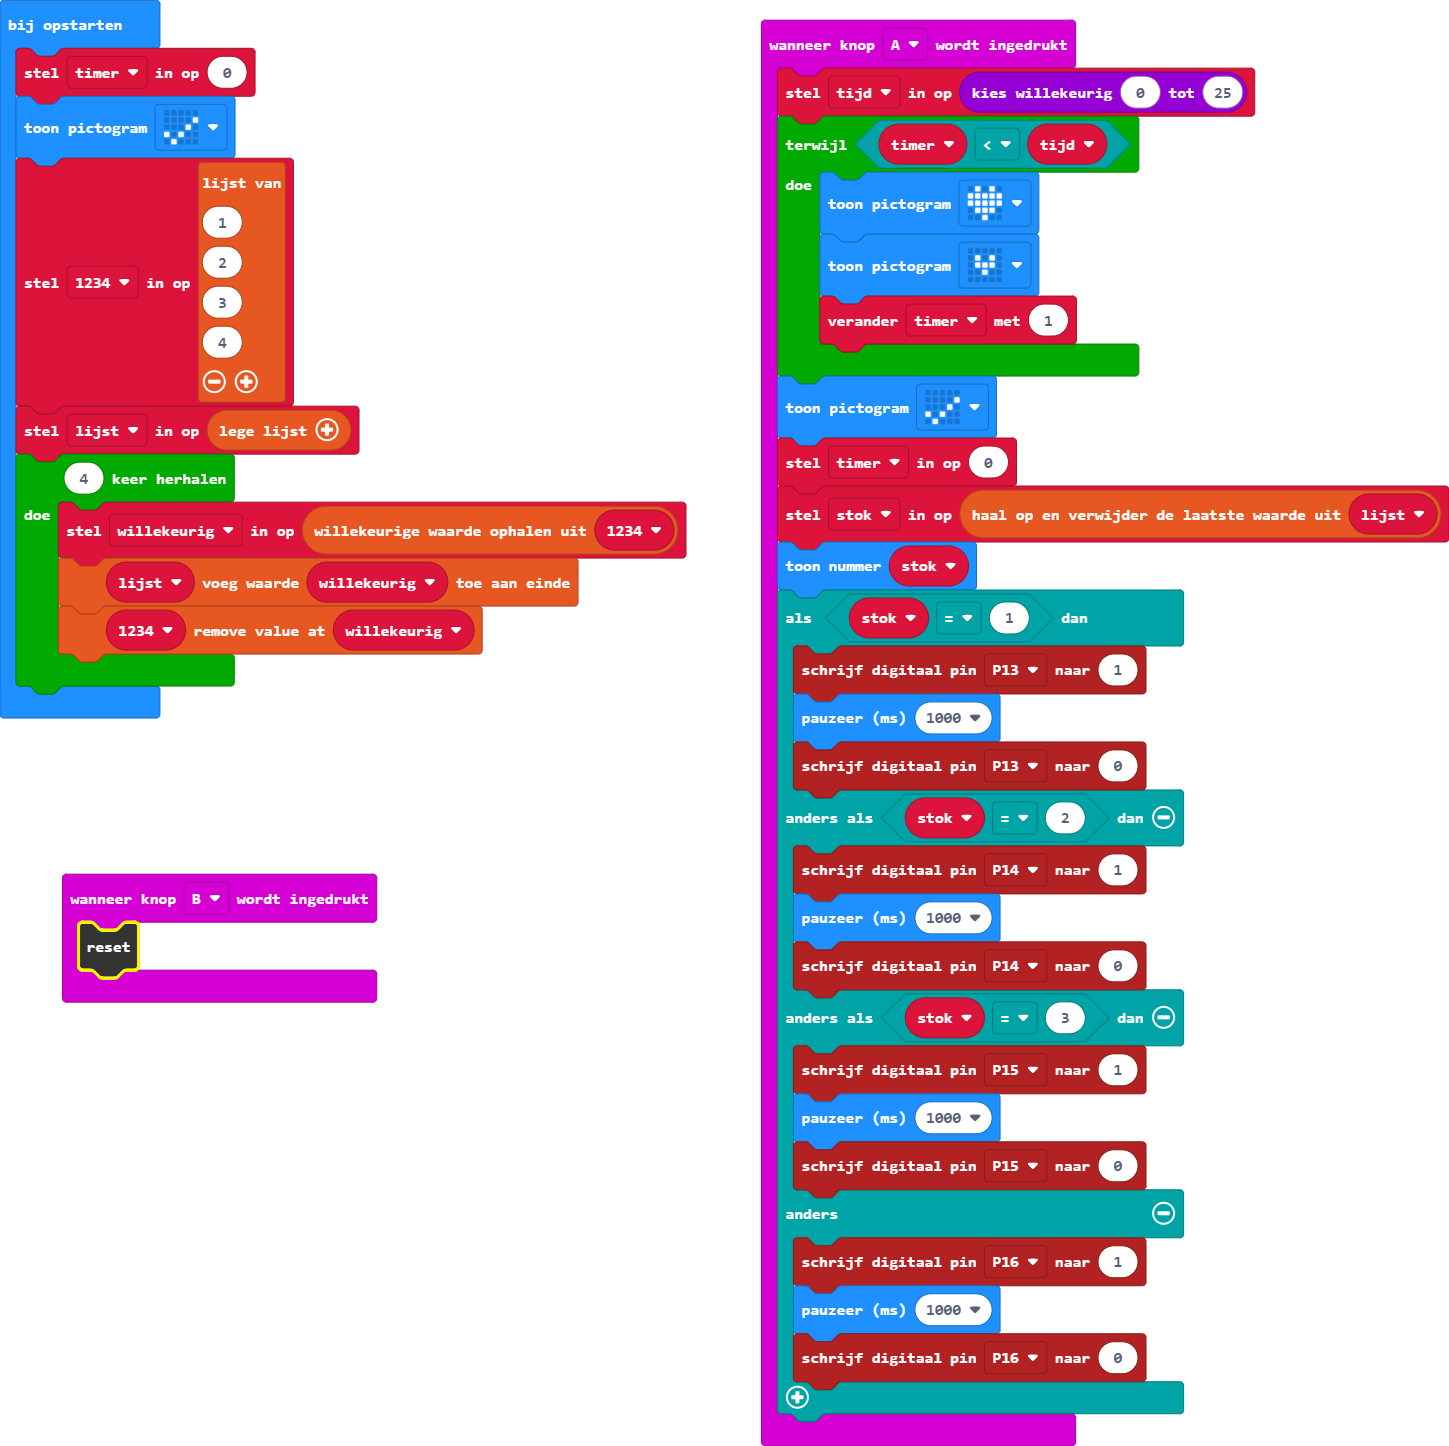
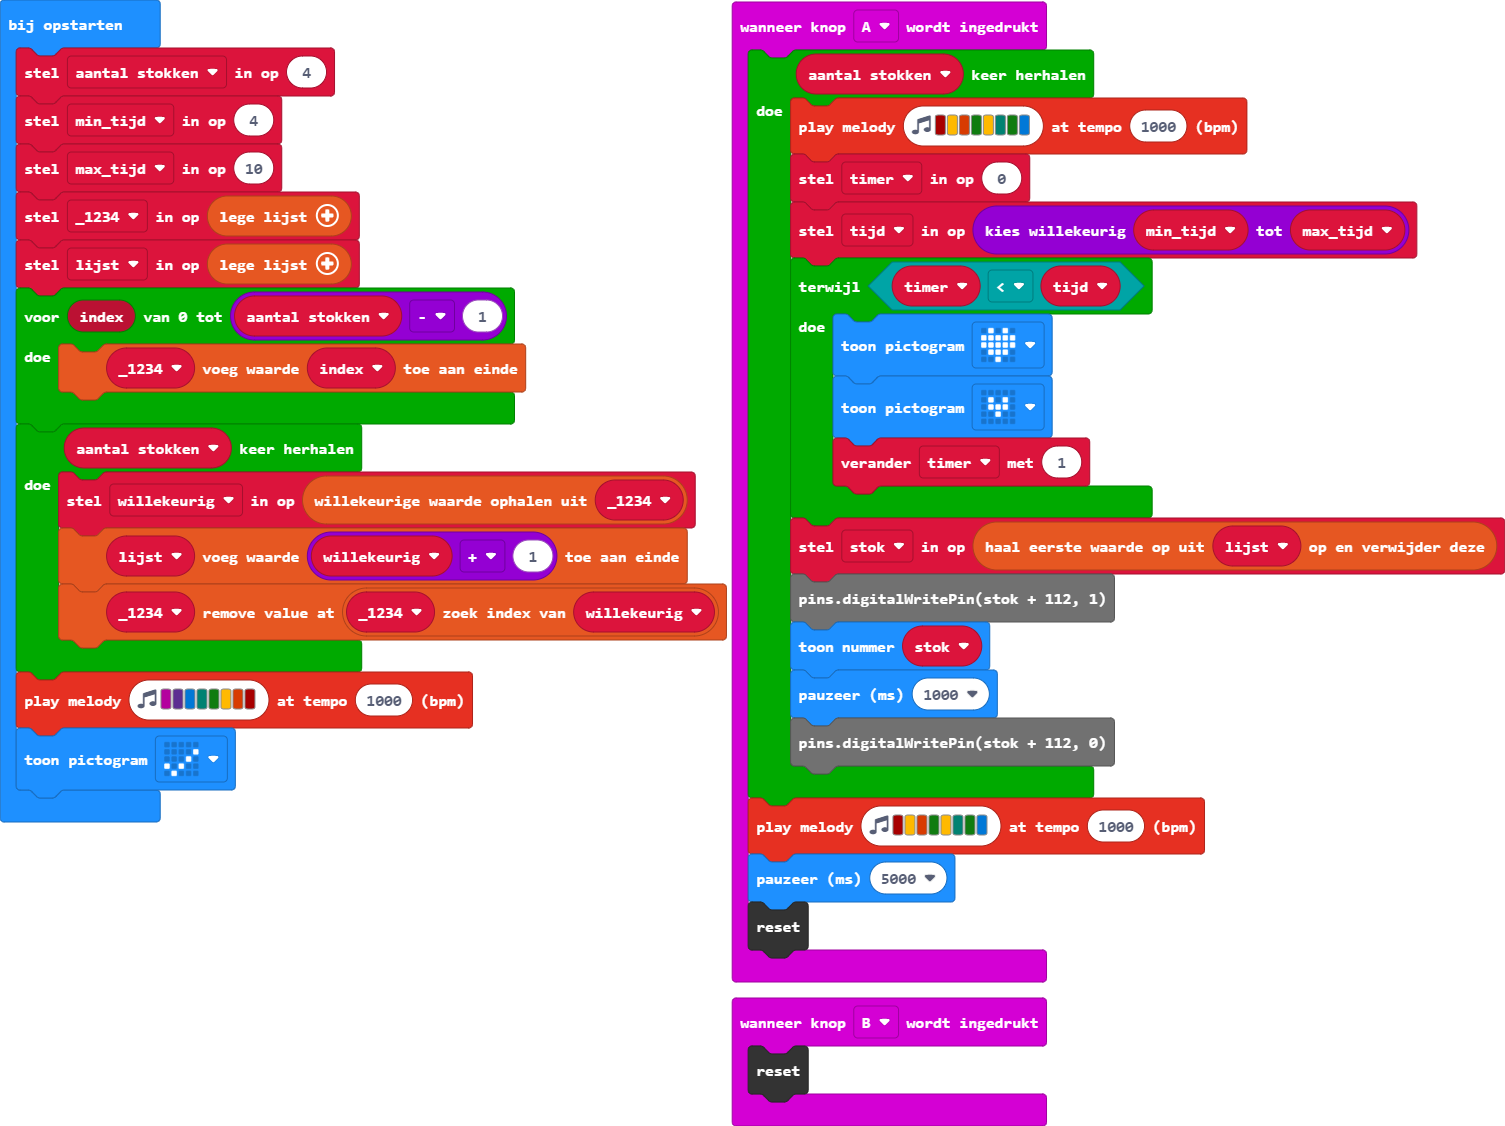
pxt.json, main.blocks, main.ts bijwerken

diff --git a/main.ts b/main.ts
@@ -1,51 +1,46 @@
 input.onButtonPressed(Button.A, function () {
-    tijd = randint(0, 25)
-    while (timer < tijd) {
-        basic.showIcon(IconNames.Heart)
-        basic.showIcon(IconNames.SmallHeart)
-        timer += 1
+    for (let index = 0; index < aantal_stokken; index++) {
+        music.playMelody("C5 A B G A F G E ", 1000)
+        timer = 0
+        tijd = randint(min_tijd, max_tijd)
+        while (timer < tijd) {
+            basic.showIcon(IconNames.Heart)
+            basic.showIcon(IconNames.SmallHeart)
+            timer += 1
+        }
+        stok = lijst.shift()
+        pins.digitalWritePin(stok + 112, 1)
+basic.showNumber(stok)
+        basic.pause(1000)
+        pins.digitalWritePin(stok + 112, 0)
     }
-    basic.showIcon(IconNames.Yes)
-    timer = 0
-    stok = lijst.pop()
-    basic.showNumber(stok)
-    if (stok == 1) {
-        pins.digitalWritePin(DigitalPin.P13, 1)
-        basic.pause(1000)
-        pins.digitalWritePin(DigitalPin.P13, 0)
-    } else if (stok == 2) {
-        pins.digitalWritePin(DigitalPin.P14, 1)
-        basic.pause(1000)
-        pins.digitalWritePin(DigitalPin.P14, 0)
-    } else if (stok == 3) {
-        pins.digitalWritePin(DigitalPin.P15, 1)
-        basic.pause(1000)
-        pins.digitalWritePin(DigitalPin.P15, 0)
-    } else {
-        pins.digitalWritePin(DigitalPin.P16, 1)
-        basic.pause(1000)
-        pins.digitalWritePin(DigitalPin.P16, 0)
-    }
+    music.playMelody("C5 A B G A F G E ", 1000)
+    basic.pause(5000)
+    control.reset()
 })
 input.onButtonPressed(Button.B, function () {
     control.reset()
 })
 let stok = 0
 let tijd = 0
+let timer = 0
 let willekeurig = 0
 let lijst: number[] = []
-let timer = 0
-timer = 0
-basic.showIcon(IconNames.Yes)
-let _1234 = [
-1,
-2,
-3,
-4
-]
+let max_tijd = 0
+let min_tijd = 0
+let aantal_stokken = 0
+aantal_stokken = 4
+min_tijd = 4
+max_tijd = 10
+let _1234: number[] = []
 lijst = []
-for (let index = 0; index < 4; index++) {
-    willekeurig = _1234._pickRandom()
-    lijst.push(willekeurig)
-    _1234.removeAt(willekeurig)
+for (let index = 0; index <= aantal_stokken - 1; index++) {
+    _1234.push(index)
 }
+for (let index = 0; index < aantal_stokken; index++) {
+    willekeurig = _1234._pickRandom()
+    lijst.push(willekeurig + 1)
+    _1234.removeAt(_1234.indexOf(willekeurig))
+}
+music.playMelody("C D E F G A B C5 ", 1000)
+basic.showIcon(IconNames.Yes)
